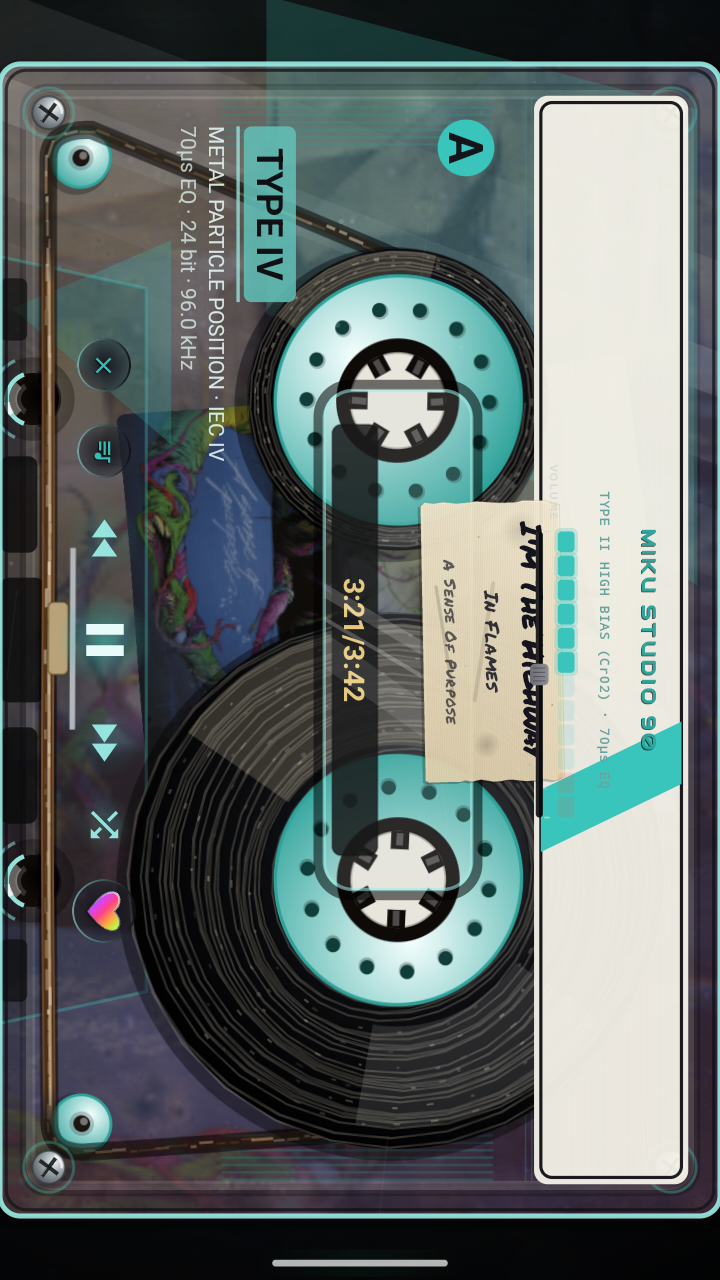
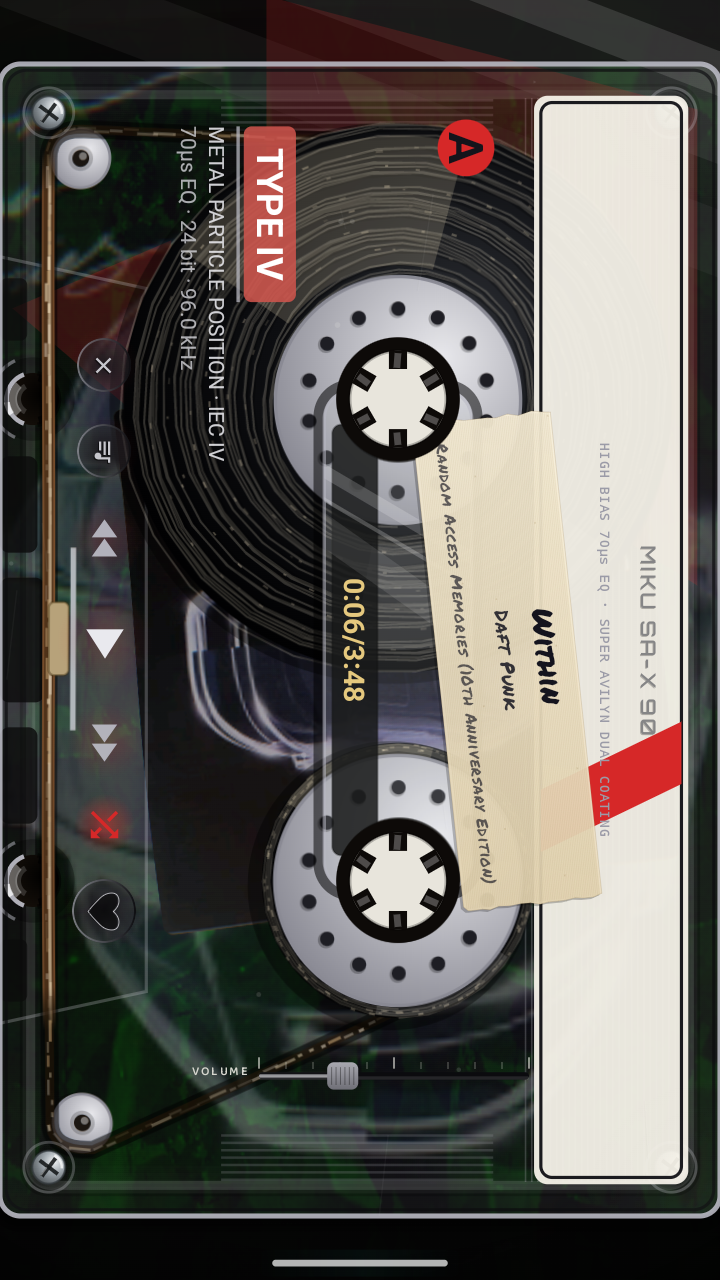
Fix the DAC state readout and refresh the screenshots
The hardware panel showed a dash for every value and said KERNEL SYSFS NOT
READABLE BY THIS PROCESS. Honest, but a dead panel, and the cause is
structural: SELinux denies the sa_sound_setting nodes to platform_app, and no
amount of signing changes that because the policy keys on the domain rather
than on the certificate. The app had a no-su fallback that correctly refused to
invent values, so it just showed nothing.

The same state is mirrored into Settings.Global under vendor.audio.hiby.*, and
that is not a consolation prize: it is the namespace HiBy's own audio HAL reads
and writes, so it is what the hardware is actually being told to do. The audit
falls back to it and records which source answered, so the banner now reads
LIVE VENDOR HAL STATE (vendor.audio.hiby.*) SYSFS DENIED TO THIS DOMAIN instead
of claiming to read the kernel. Filter, gain, high power and DRE show real
values; turbo and output still show a dash because they genuinely are not
readable from either source, which is the point.

MikuBrain and MikuBrainModal keep the no-arg overload: neither has a Context in
scope, so they stay sysfs-only rather than having one threaded through for a
heartbeat line.

Screenshots refreshed against 2.0.303, with tape mode shown on two tracks
because the per-track placement roll does not come across in one frame.

Author: sworrl <agent.jearl@gmail.com>

diff --git a/app/src/main/java/com/miku/player/CirrusLogicManager.kt b/app/src/main/java/com/miku/player/CirrusLogicManager.kt
@@ -64,8 +64,11 @@ object CirrusLogicManager {
         val kernelTurbo: String? = null,
         val kernelOutput: String? = null,
         val kernelBalance: String? = null,
-        val isSysfsReadable: Boolean = false
+        val isSysfsReadable: Boolean = false,
+        /** Where the values above actually came from, so the UI can say so instead of guessing. */
+        val source: Source = Source.NONE
     ) {
+        enum class Source { NONE, SYSFS, VENDOR_SETTINGS }
         val kernelFilterText: String get() = kernelFilter ?: "—"
         val kernelGainText: String get() = kernelGain ?: "—"
         val kernelHighPowerText: String get() = kernelHighPower ?: "—"
@@ -343,12 +346,30 @@ object CirrusLogicManager {
             .trim().takeIf { it.isNotEmpty() }
     }.getOrNull()
 
+    /** Read one `vendor.audio.hiby.*` value out of Settings.Global. */
+    private fun vendorSetting(ctx: Context, key: String): String? = runCatching {
+        Settings.Global.getString(ctx.contentResolver, "vendor.audio.hiby.$key")?.trim()
+            ?.takeIf { it.isNotEmpty() }
+    }.getOrNull()
+
     /**
      * Reads whatever the DAC actually exposes right now. Nodes that cannot be read come back null
      * (rendered "—"); nothing is substituted. The turbo property is read through SystemProperties
      * rather than a `getprop` shell-out, which needed su and therefore always failed on MikuOS.
+     *
+     * TWO SOURCES, in order. The sysfs nodes under sa_sound_setting are the closest thing to
+     * ground truth, but SELinux denies them to platform_app on this device (avc: denied { read }
+     * ... scontext=platform_app tcontext=sysfs) and no amount of signing changes that, because the
+     * policy keys on the domain. That is why this panel showed nothing but dashes.
+     *
+     * The same state is mirrored into `Settings.Global` under `vendor.audio.hiby.*`, and that is
+     * not a consolation prize: it is the namespace HiBy's own audio HAL reads and writes, so it is
+     * what the hardware is actually being told to do. Falling back to it is a real measurement of
+     * a real value, not a substituted "typical" one, which is the thing the no-fake-data rule
+     * forbids. [source] records which one answered so the UI never claims to be reading the kernel
+     * when it is reading settings.
      */
-    fun getLiveHardwareAudit(): HardwareAuditState {
+    fun getLiveHardwareAudit(ctx: Context? = null): HardwareAuditState {
         val filter = readSysfs("digital_filter")
         val gain = readSysfs("gain")
         val hp = readSysfs("high_power_mode")
@@ -356,15 +377,27 @@ object CirrusLogicManager {
         val turbo = sysProp("vendor.audio.hiby.hw.audio_turbo")
         val out = readSysfs("out_mode")
         val bal = readSysfs("lr_balance")
+        val sysfsOk = listOf(filter, gain, hp, dre, out, bal).any { it != null }
+        if (sysfsOk || ctx == null) {
+            return HardwareAuditState(
+                kernelFilter = filter, kernelGain = gain, kernelHighPower = hp, kernelDre = dre,
+                kernelTurbo = turbo, kernelOutput = out, kernelBalance = bal,
+                isSysfsReadable = sysfsOk,
+                source = if (sysfsOk) HardwareAuditState.Source.SYSFS else HardwareAuditState.Source.NONE
+            )
+        }
+        val sFilter = vendorSetting(ctx, "digital_filter") ?: vendorSetting(ctx, "hw.digital_filter")
+        val sGain = vendorSetting(ctx, "gain") ?: vendorSetting(ctx, "hw.gain")
+        val sHp = vendorSetting(ctx, "high_power_mode") ?: vendorSetting(ctx, "high_power")
+        val sDre = vendorSetting(ctx, "dre_mode")
+        val sOut = vendorSetting(ctx, "hw.bal_po_lo_switch")
+        val sBal = vendorSetting(ctx, "hw.balance")
+        val any = listOf(sFilter, sGain, sHp, sDre, sOut, sBal).any { it != null }
         return HardwareAuditState(
-            kernelFilter = filter,
-            kernelGain = gain,
-            kernelHighPower = hp,
-            kernelDre = dre,
-            kernelTurbo = turbo,
-            kernelOutput = out,
-            kernelBalance = bal,
-            isSysfsReadable = listOf(filter, gain, hp, dre, out, bal).any { it != null }
+            kernelFilter = sFilter, kernelGain = sGain, kernelHighPower = sHp, kernelDre = sDre,
+            kernelTurbo = turbo, kernelOutput = sOut, kernelBalance = sBal,
+            isSysfsReadable = false,
+            source = if (any) HardwareAuditState.Source.VENDOR_SETTINGS else HardwareAuditState.Source.NONE
         )
     }
 }

diff --git a/app/src/main/java/com/miku/player/HardwareSettingsActivity.kt b/app/src/main/java/com/miku/player/HardwareSettingsActivity.kt
@@ -77,7 +77,7 @@ fun HardwareSettingsScreen(onBack: () -> Unit) {
 
     fun refreshAudit() {
         scope.launch(Dispatchers.IO) {
-            auditState = CirrusLogicManager.getLiveHardwareAudit()
+            auditState = CirrusLogicManager.getLiveHardwareAudit(ctx)
             dtaStatus = MikuDirectAudio.status(ctx)
         }
     }
@@ -130,7 +130,7 @@ fun HardwareSettingsScreen(onBack: () -> Unit) {
             csTurbo = CirrusLogicManager.isHighPowerEnabled(ctx)
             csDsdComp = CirrusLogicManager.getDsdGainCompensate(ctx)
             csOutput = CirrusLogicManager.getOutputMode(ctx)
-            auditState = CirrusLogicManager.getLiveHardwareAudit()
+            auditState = CirrusLogicManager.getLiveHardwareAudit(ctx)
         }
     }
 
@@ -235,7 +235,13 @@ fun HardwareSettingsScreen(onBack: () -> Unit) {
                                     Modifier
                                         .size(10.dp)
                                         .clip(CircleShape)
-                                        .background(if (auditState.isSysfsReadable) Color(0xFF00E676) else Color(0xFF6B7A80))
+                                        .background(
+                                            when (auditState.source) {
+                                                CirrusLogicManager.HardwareAuditState.Source.SYSFS -> Color(0xFF00E676)
+                                                CirrusLogicManager.HardwareAuditState.Source.VENDOR_SETTINGS -> Color(0xFF7FE3FF)
+                                                else -> Color(0xFF6B7A80)
+                                            }
+                                        )
                                 )
                                 Spacer(Modifier.width(8.dp))
                                 Text(
@@ -277,8 +283,18 @@ fun HardwareSettingsScreen(onBack: () -> Unit) {
                                 .padding(10.dp)
                         ) {
                             Text(
-                                if (auditState.isSysfsReadable) "LIVE KERNEL SYSFS STATE (/sys/.../sa_sound_setting/)"
-                                else "KERNEL SYSFS NOT READABLE BY THIS PROCESS (/sys/.../sa_sound_setting/)",
+                                // Say which source answered. The sysfs nodes are the closest thing
+                                // to ground truth but SELinux denies them to platform_app, so most
+                                // of the time this reads the vendor settings the audio HAL itself
+                                // uses. Both are real reads; claiming "kernel" for either would not be.
+                                when (auditState.source) {
+                                    CirrusLogicManager.HardwareAuditState.Source.SYSFS ->
+                                        "LIVE KERNEL SYSFS STATE (/sys/.../sa_sound_setting/)"
+                                    CirrusLogicManager.HardwareAuditState.Source.VENDOR_SETTINGS ->
+                                        "LIVE VENDOR HAL STATE (vendor.audio.hiby.*) · SYSFS DENIED TO THIS DOMAIN"
+                                    else ->
+                                        "NO DAC STATE READABLE BY THIS PROCESS"
+                                },
                                 color = MikuCyan,
                                 fontSize = 9.sp,
                                 fontWeight = FontWeight.Bold,

diff --git a/README.md b/README.md
@@ -34,9 +34,21 @@ is not connected to anything. Every reading in this app comes from the file or t
 not shown at all. There is a dash where other players guess.
 
 <p align="center">
-  <img src="docs/screenshots/01-now-playing-hires.png" width="30%" alt="Now Playing during a 24-bit 96kHz FLAC: FLAC / 24-BIT / 96KHZ / HI-RES badges">
-  <img src="docs/screenshots/03-tape-mode.png" width="30%" alt="Tape mode grading itself TYPE IV from the real 24-bit 96kHz stream">
+  <img src="docs/screenshots/03-tape-mode.png" width="30%" alt="Tape mode grading itself TYPE IV from the real 24-bit 96kHz stream, with a handwritten masking tape label">
+  <img src="docs/screenshots/04-tape-mode-alt.png" width="30%" alt="The same screen on another track: the tape lands elsewhere, at a different angle, on a different shell">
   <img src="docs/screenshots/02-fullscreen-visualizer.png" width="30%" alt="Fullscreen libprojectM 4.2.0 visualizer">
+</p>
+
+Those first two are the same screen on two different tracks. The masking tape's position, angle,
+paper, torn edges and grime are rolled per track from the track id, so the strip lands somewhere a
+person might actually have stuck it rather than in the same spot every time. The two drive holes
+are drawn last, over the top of it, because they are holes through the shell and nothing can sit on
+them.
+
+<p align="center">
+  <img src="docs/screenshots/01-now-playing-hires.png" width="30%" alt="Now Playing during a 24-bit 96kHz FLAC: FLAC / 24-BIT / 96KHZ / HI-RES badges">
+  <img src="docs/screenshots/05-library-stats.png" width="30%" alt="Library stats: 17048 tracks, 415 artists, 1777 albums, 98 percent FLAC, 51 days of listening">
+  <img src="docs/screenshots/06-dac-controls.png" width="30%" alt="DAC controls reading live vendor HAL state: NOS filter, high gain, DRE enabled">
 </p>
 
 ---
